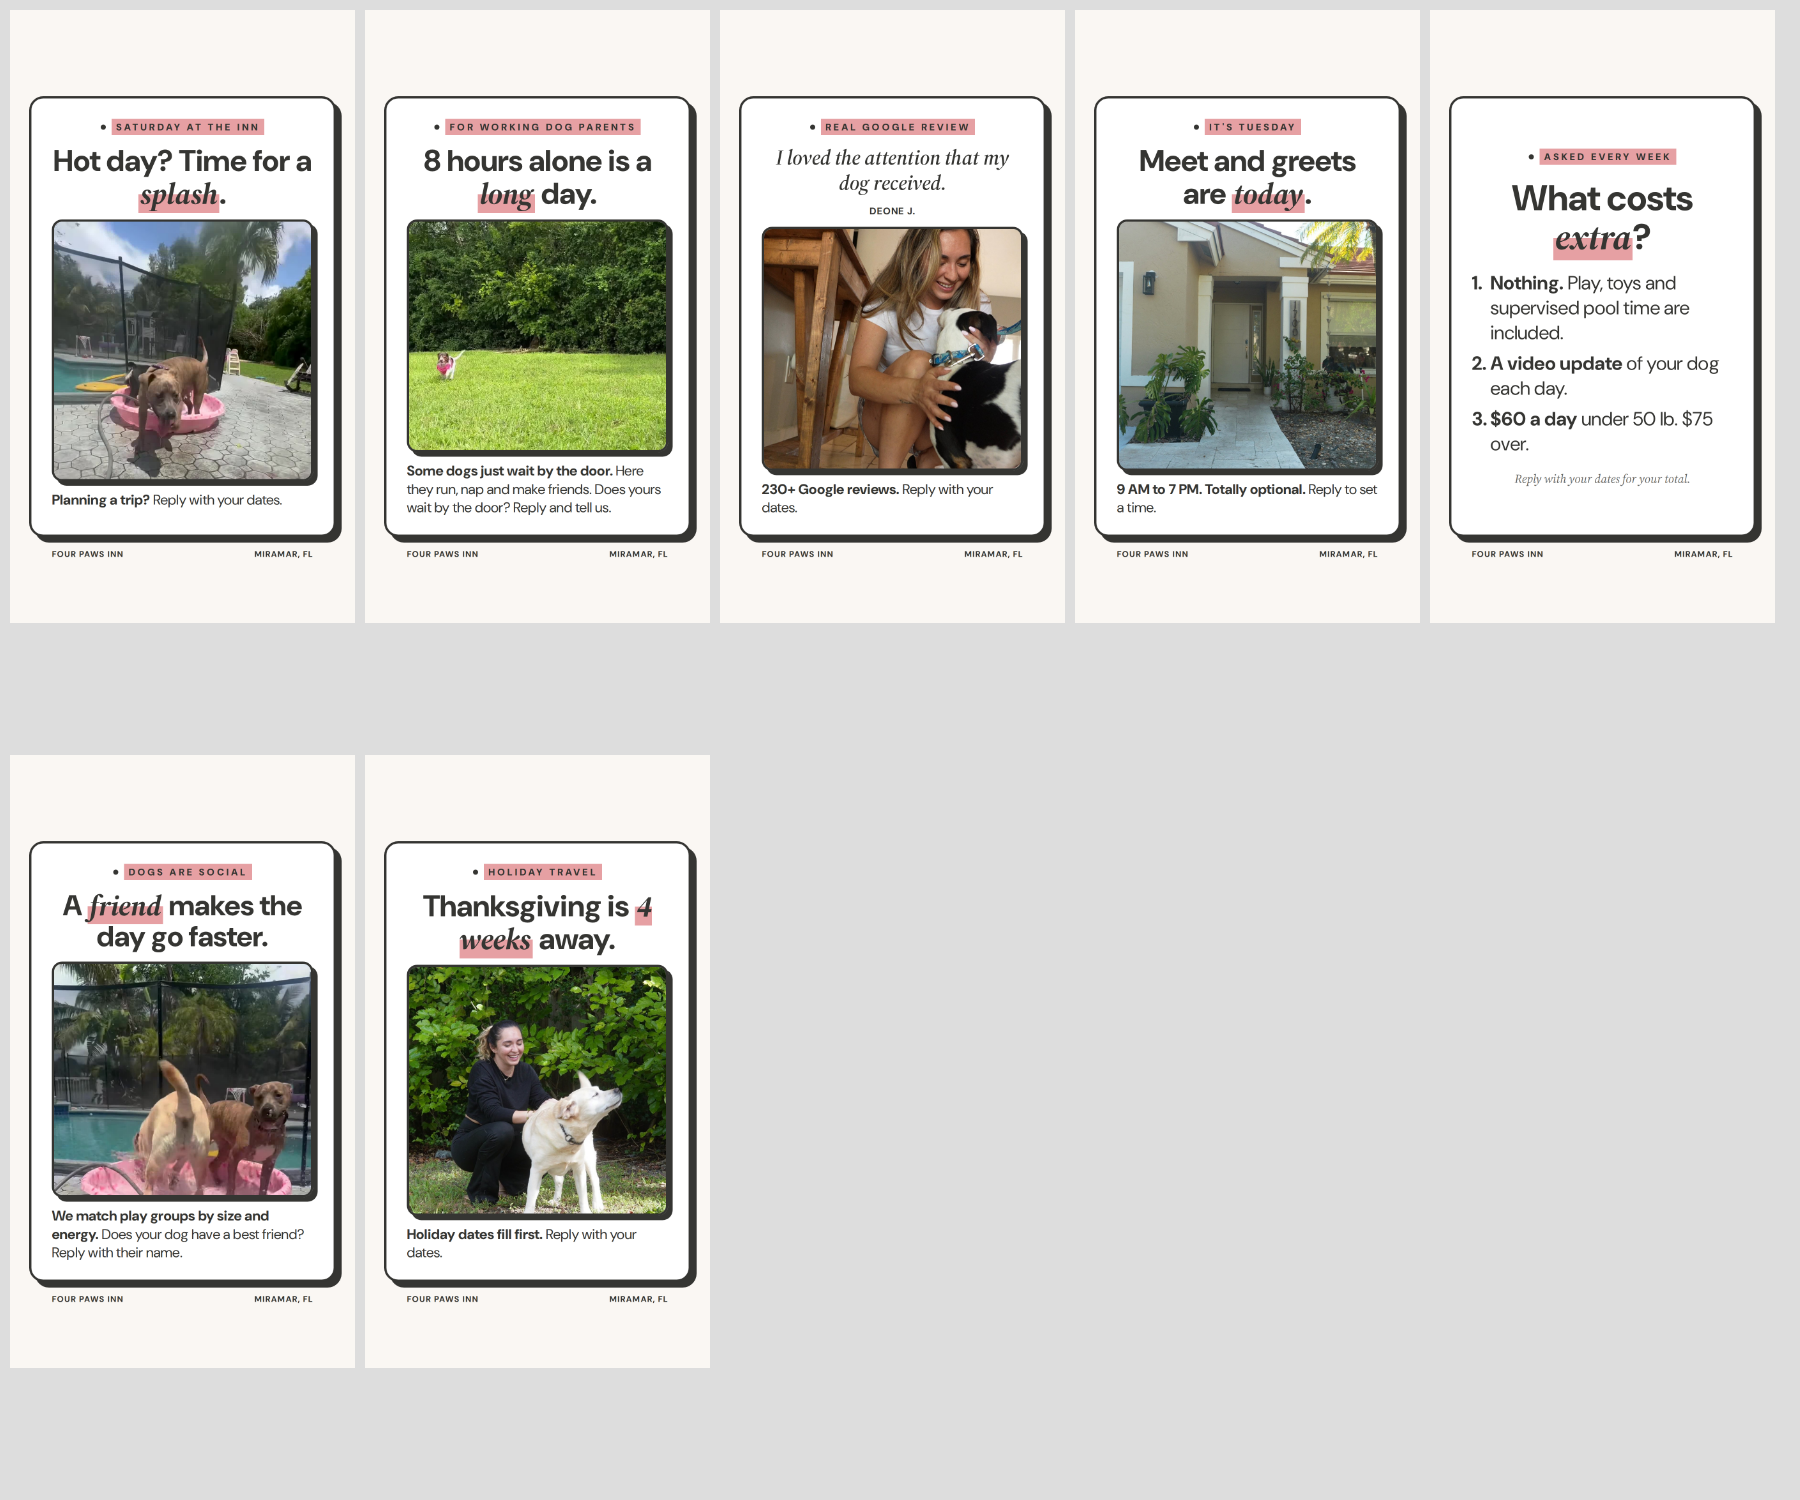
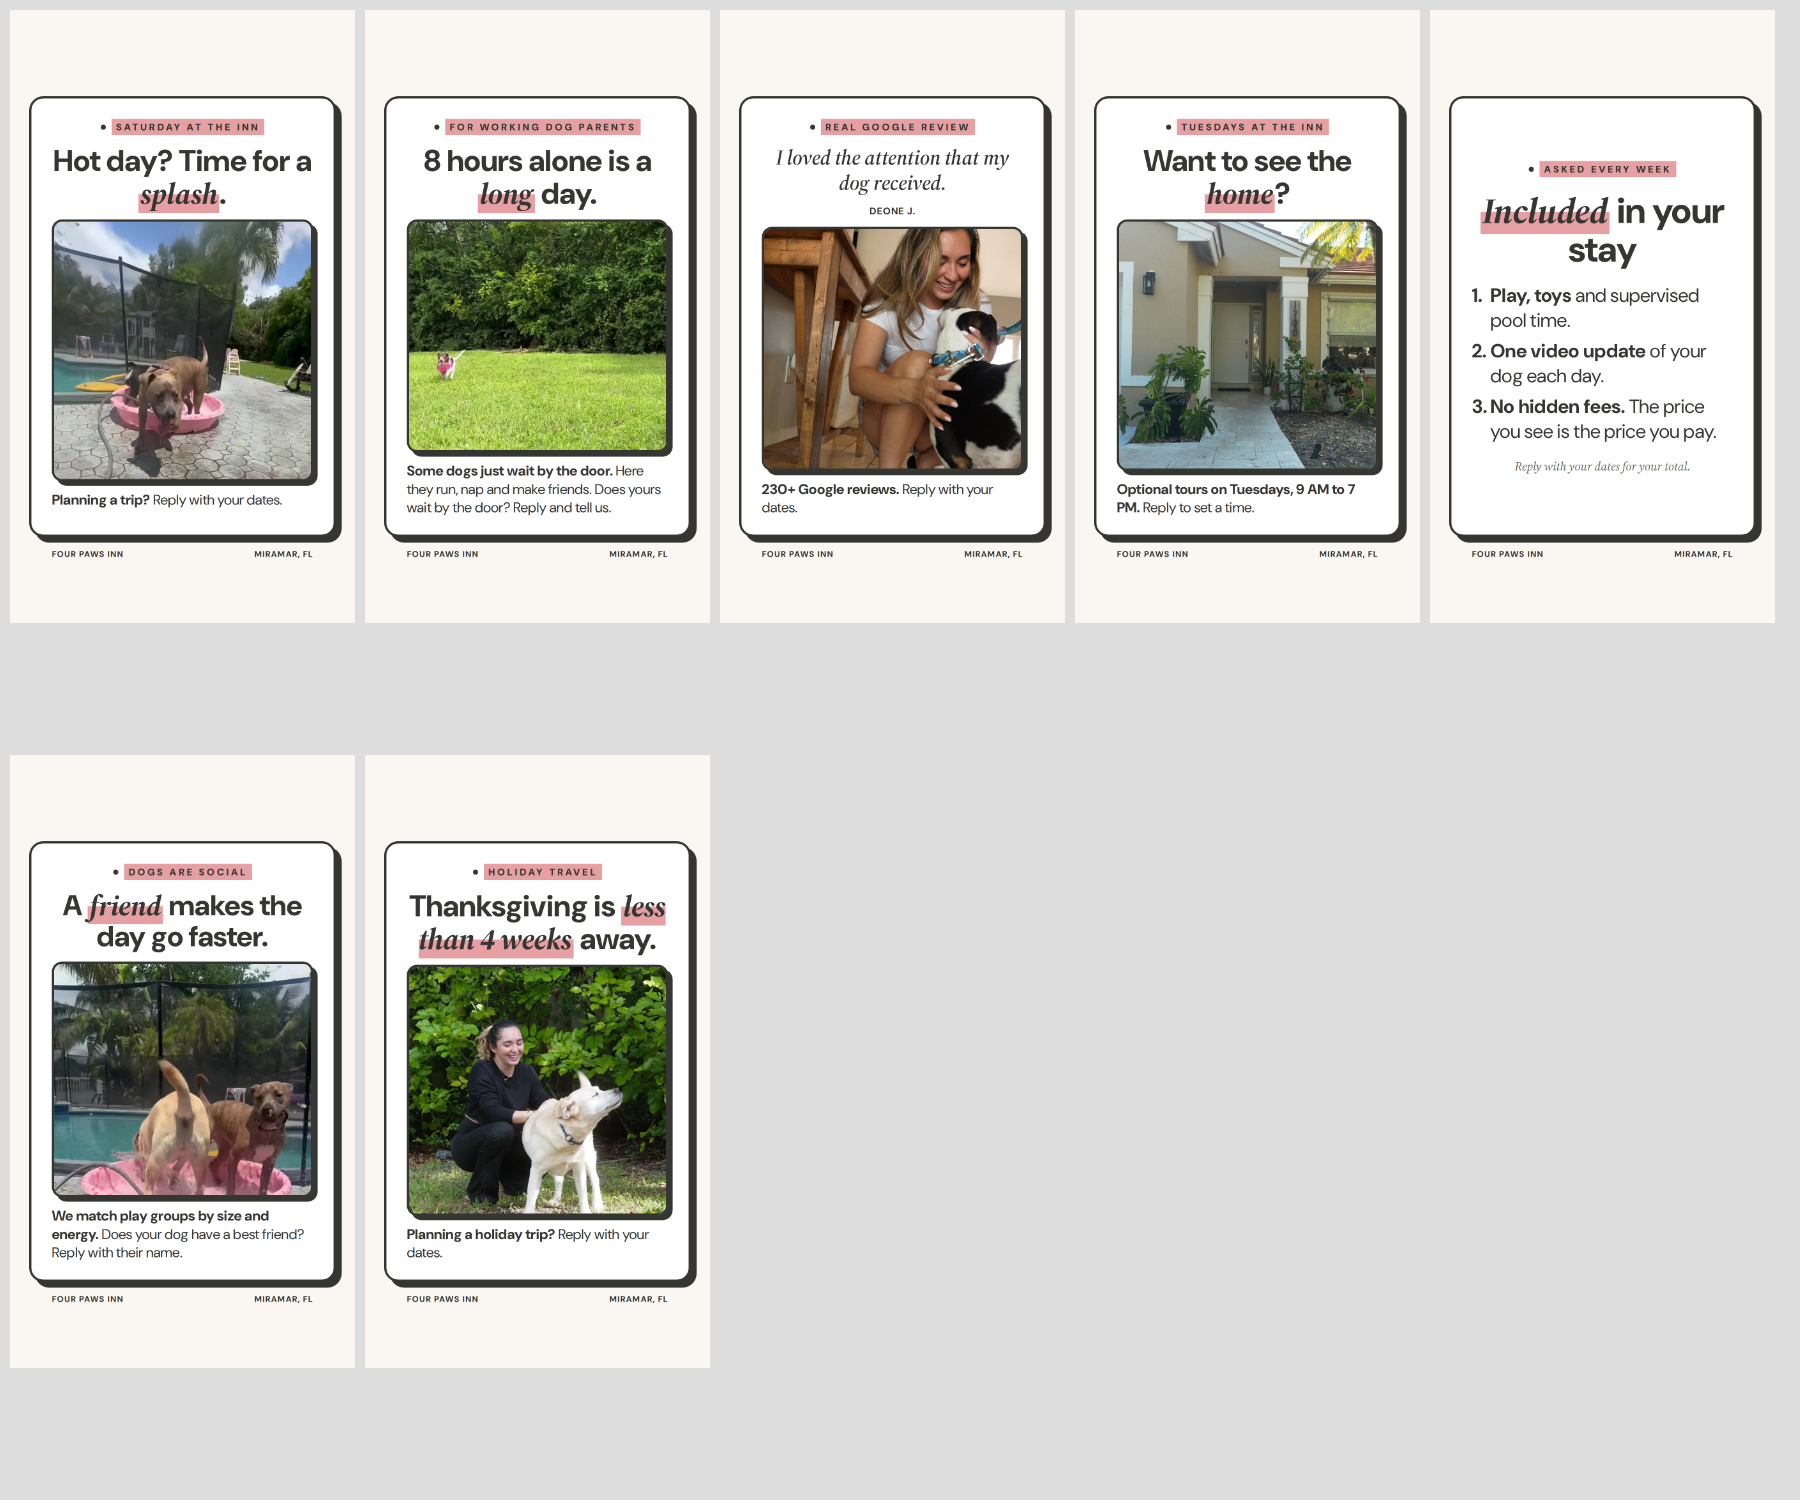
Apply Codex review: Stories Oct 27/28/30, Wed carousel quote, Thu reel re-render, GBP Wed/Fri text
Claude-Session: https://claude.ai/code/session_01CuiBP4cscBkzuvo8JUyMNz

diff --git a/content/gbp/2026-10-26-week.md b/content/gbp/2026-10-26-week.md
@@ -12,10 +12,13 @@ POSTED Oct 26, 2026, post id 8704081120582906571 (standing yes, Oct 11). Codex r
 
 ## Wed Oct 28: Shy dogs welcome
 Is your dog shy or picky with other dogs? That is ok.
-New dogs get one on one time with our team first, then quiet time to explore. They meet the group slowly, only when they are ready.
+New dogs get one on one time with us first, then quiet time to explore. We take group introductions slowly, when the dog is ready and group care is a good fit.
 We also have private suites for pups who do best on their own. Tell us about your dog.
 
 ## Fri Oct 30: Thanksgiving is close
-Thanksgiving is less than 4 weeks away, and holiday dates fill first.
+Thanksgiving is less than 4 weeks away.
 A 25% deposit holds your dates. The rest is paid before drop off.
 Drop off is curbside. Text us your ETA, and we come out to your car. Send us your dates today.
+
+
+Codex review Oct 26 applied Oct 27: Wed shy dog wording ("us", group introductions only when a good fit); Fri scarcity line removed. Mon live post: correction pending an in place edit.
